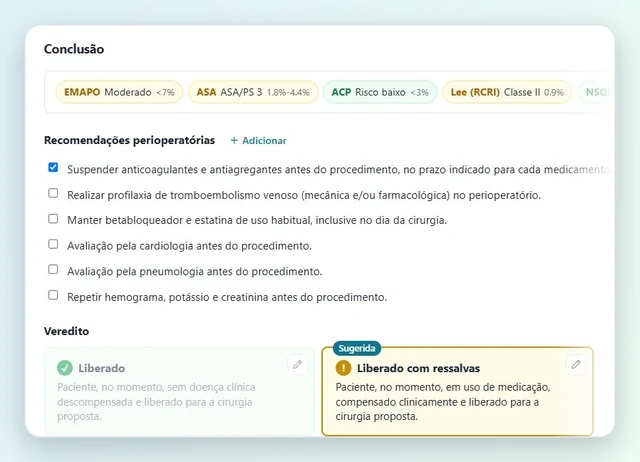
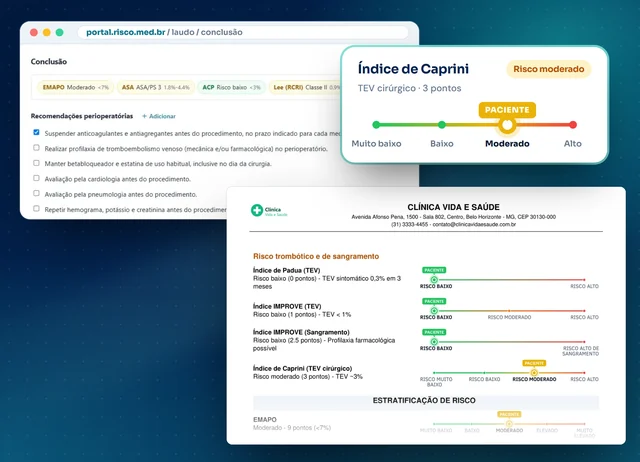
novasi magens

diff --git a/index.html b/index.html
@@ -330,7 +330,7 @@
 }
     </script>
 
-    <link rel="preload" as="image" href="/assets/laudo-risco-cirurgico-riscomed.webp?v=2" imagesrcset="/assets/laudo-risco-cirurgico-riscomed-640.webp?v=2 640w, /assets/laudo-risco-cirurgico-riscomed.webp?v=2 898w" imagesizes="(max-width: 1024px) calc(100vw - 32px), 640px" fetchpriority="high">
+    <link rel="preload" as="image" href="/assets/laudo-risco-cirurgico-riscomed.webp?v=5" imagesrcset="/assets/laudo-risco-cirurgico-riscomed-640.webp?v=5 640w, /assets/laudo-risco-cirurgico-riscomed.webp?v=5 898w, /assets/laudo-risco-cirurgico-riscomed-1796.webp?v=5 1796w" imagesizes="(max-width: 1024px) calc(100vw - 32px), 640px" fetchpriority="high">
 
     <!-- CSS -->
     <link rel="stylesheet" href="/assets/styles.min.css?v=433df284">
@@ -419,7 +419,7 @@
             
             <div class="hero-visual">
                 <div class="mockup-container">
-                    <img src="/assets/laudo-risco-cirurgico-riscomed.webp?v=2" srcset="/assets/laudo-risco-cirurgico-riscomed-640.webp?v=2 640w, /assets/laudo-risco-cirurgico-riscomed.webp?v=2 898w" sizes="(max-width: 1024px) calc(100vw - 32px), 640px" width="898" height="648" alt="Etapa de conclusão no Risco MED: índices calculados, recomendações perioperatórias e sugestão de veredito" class="mockup-image" loading="eager" fetchpriority="high">
+                    <img src="/assets/laudo-risco-cirurgico-riscomed.webp?v=5" srcset="/assets/laudo-risco-cirurgico-riscomed-640.webp?v=5 640w, /assets/laudo-risco-cirurgico-riscomed.webp?v=5 898w, /assets/laudo-risco-cirurgico-riscomed-1796.webp?v=5 1796w" sizes="(max-width: 1024px) calc(100vw - 32px), 640px" width="898" height="648" alt="Tela de conclusão do Risco MED, com índices calculados, recomendações e veredito sugerido, e o laudo gerado com a ilustração do risco de cada índice (dados fictícios)" class="mockup-image" loading="eager" fetchpriority="high">
                     <div class="mockup-badge badge-1">
                         <span class="badge-number">23</span>
                         <span class="badge-text">Índices</span>
